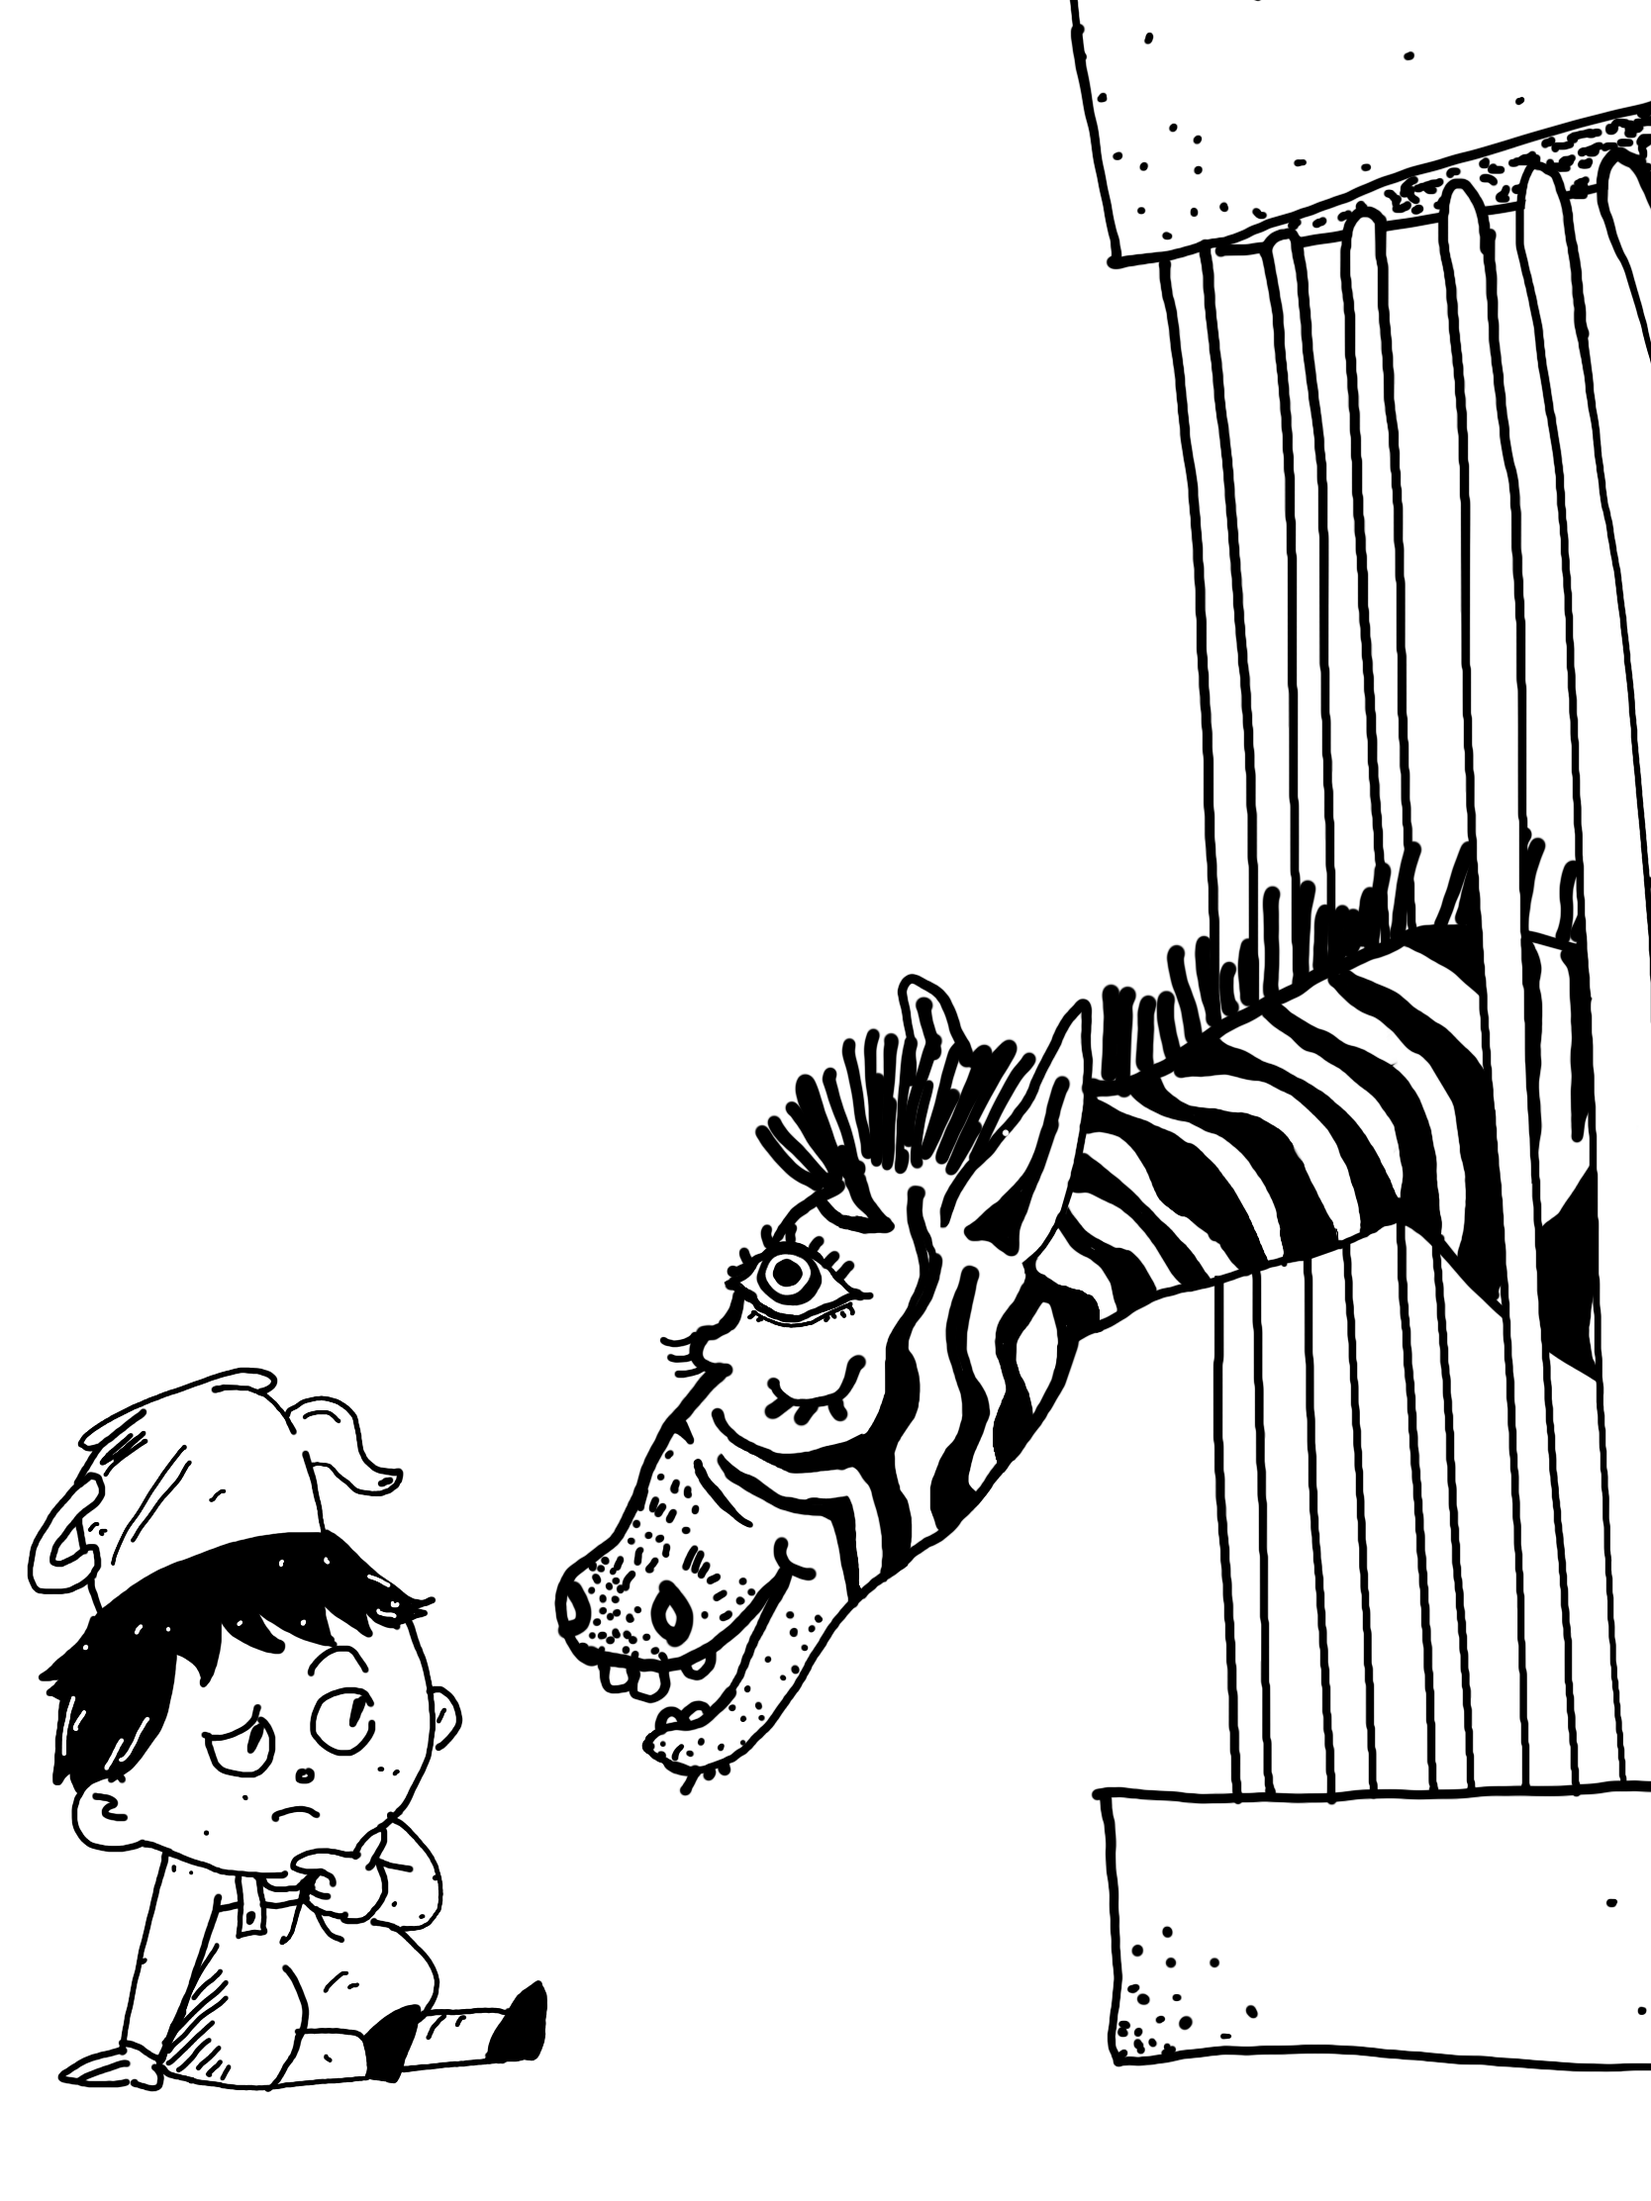
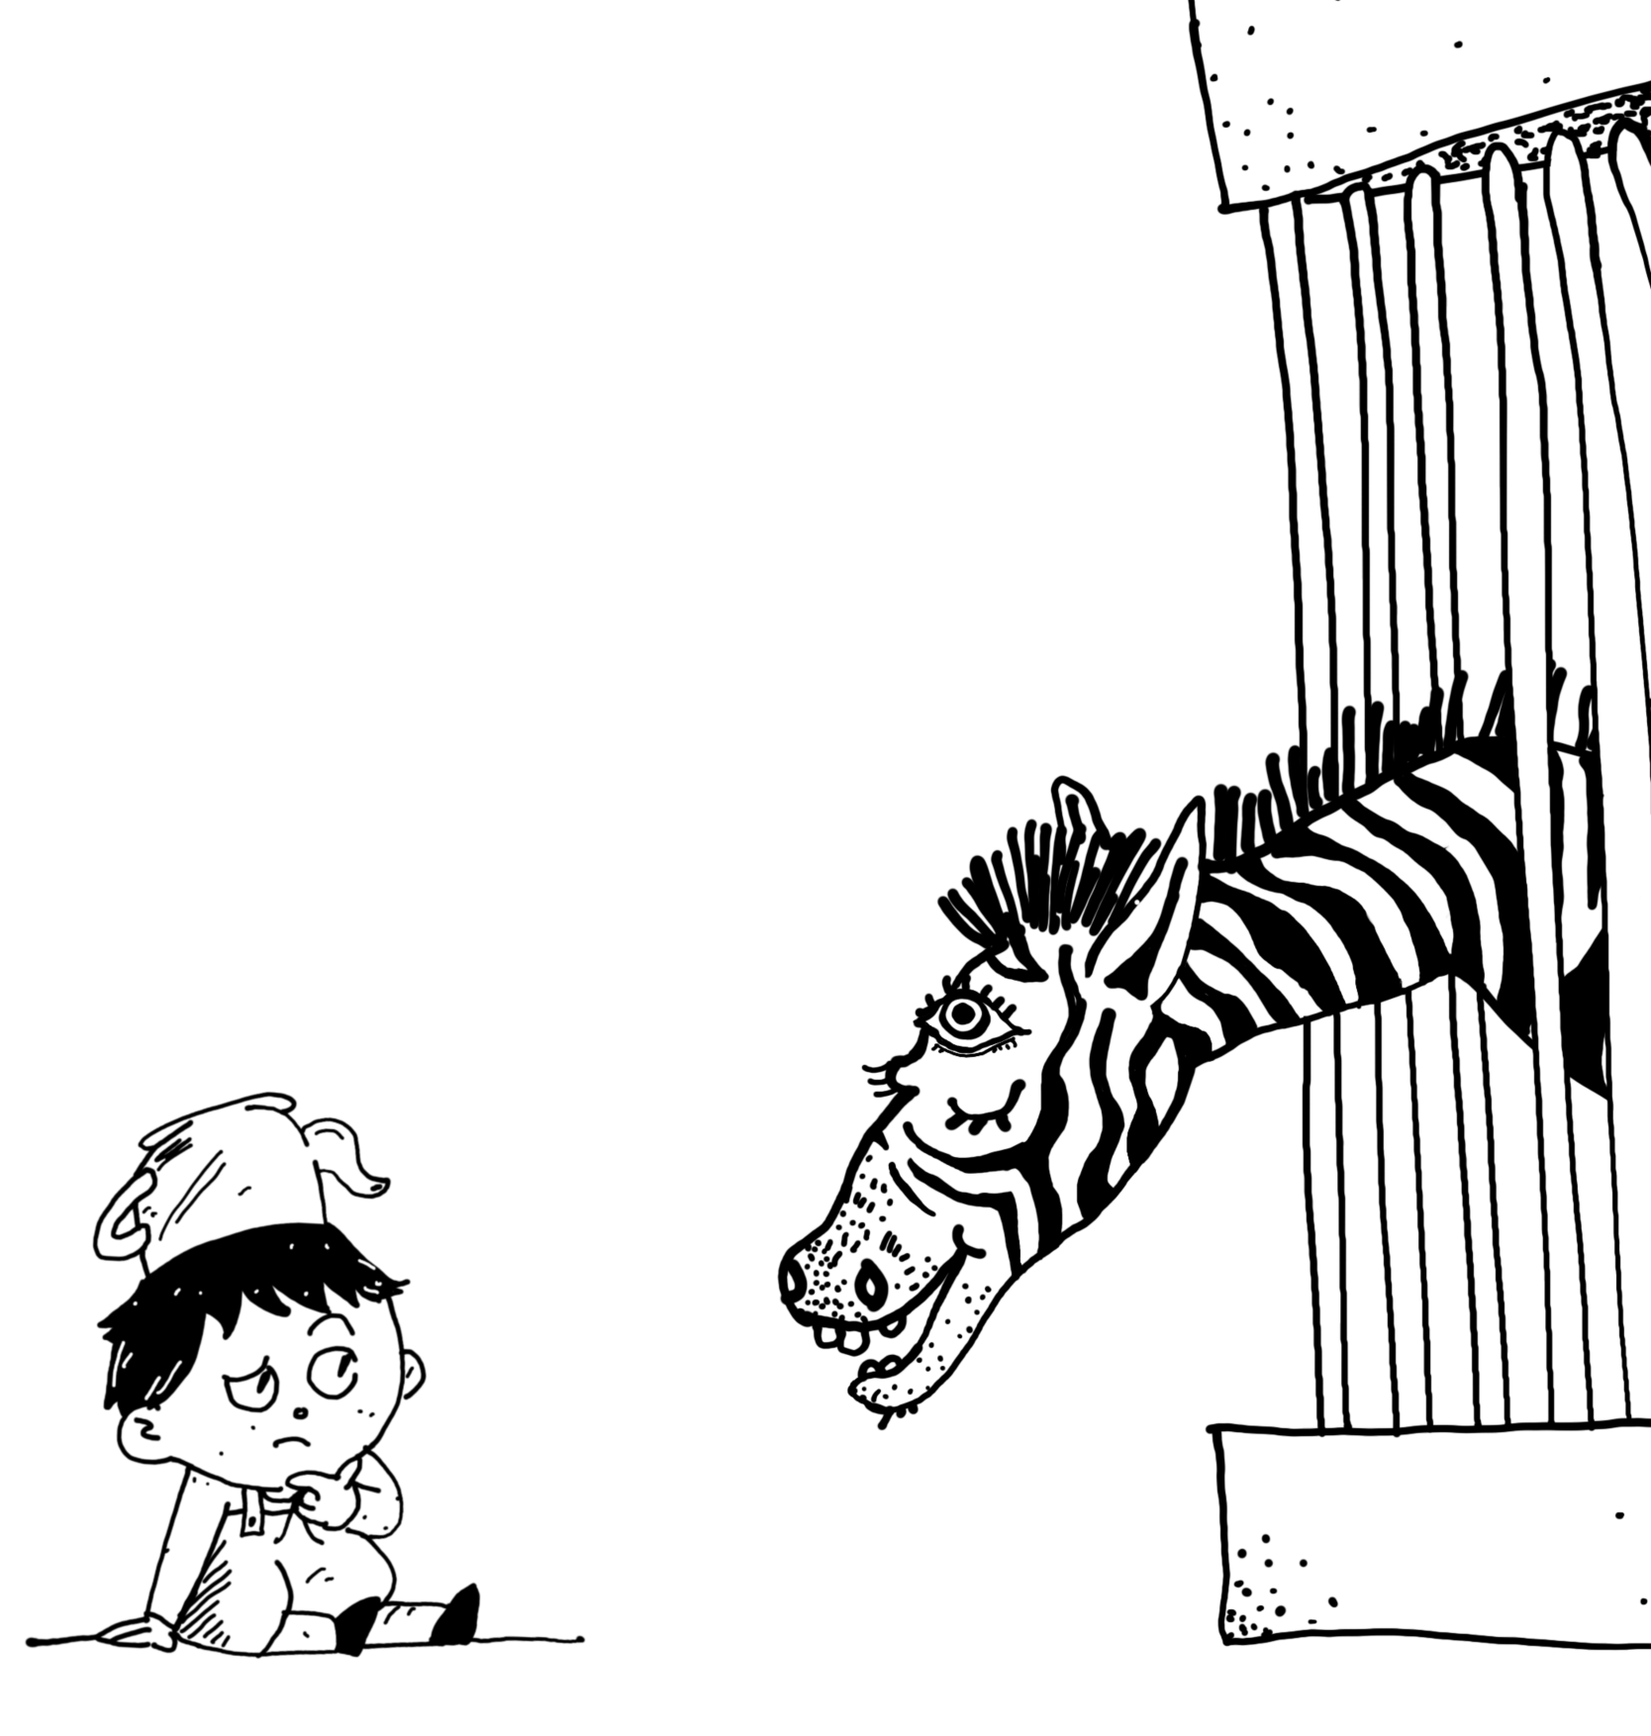
mobile ui mvp!!!!

Changed region(s): [[0.3118, 0.0, 1.0, 0.9544], [0.0, 0.6157, 0.3429, 0.9544], [0.6235, 0.0, 0.6547, 0.0308]]

diff --git a/html/projects/snakes.html b/html/projects/snakes.html
@@ -11,20 +11,23 @@
     <body>
         <img id="snake" src="../../assets/illustrations/snakes-snake.webp">
         <img id="frog" src="../../assets/illustrations/snakes-frog.webp">
+        <img id="mobile" src="../../assets/illustrations/snakes-mobile.webp">
         <div class="container">
-            <h1>Snakes and Ladders:</h1>
-            <h1><a target="_blank" href="./snakes-app.html">The Game of Romance</a></h1>
-                <p>Honestly? I was just trying to learn JavaScript.</p>
-                <p>But these larger questions motivated my project:</p>
-                <div class="list">
-                    <li>The most engaging games are ones that don’t have a linear narrative, but a branching one with many unpredictable outcomes. How can I create narrative building blocks so that each playthrough results in a unique story?</li>
-                    <li>What does my creative process look like when applied to a coding project?</li>
-                    <li>Why is love so hard to find?</li>
-                </div>
-                <p>Please note that this website is not optimized for mobile devices.</p>
-                <div class="stanza">
-                    <p>My gracious thanks to Ekaterina Gorbacheva</p>
-                    <p>for allowing me to use her Snakes and Ladders <a target="_blank" href="https://www.behance.net/gallery/73834831/Snakes-and-Ladders-Romance">design</a>!</p>
+            <div class="heading">
+                <h1>Snakes and Ladders:</h1>
+                <h1><a target="_blank" href="./snakes-app.html">The Game of Romance</a></h1>
+            </div>
+            <p>Honestly? I was just trying to learn JavaScript.</p>
+            <p>But these larger questions motivated my project:</p>
+            <div class="list">
+                <li>The most engaging games are ones that don’t have a linear narrative, but a branching one with many unpredictable outcomes. How can I create narrative building blocks so that each playthrough results in a unique story?</li>
+                <li>What does my creative process look like when applied to a coding project?</li>
+                <li>Why is love so hard to find?</li>
+            </div>
+            <p>Please note that this website is not optimized for mobile devices.</p>
+            <div class="stanza">
+                <p>My gracious thanks to Ekaterina Gorbacheva</p>
+                <p>for allowing me to use her Snakes and Ladders <a target="_blank" href="https://www.behance.net/gallery/73834831/Snakes-and-Ladders-Romance">design</a>!</p>
             </div>
         </div>
         <div class="nav">

diff --git a/html/projects/projects.html b/html/projects/projects.html
@@ -5,10 +5,11 @@
         <meta name="viewport" content="width=device-width, initial-scale=1.0"/>
         <link rel="icon" type="image/x-icon" href="../../assets/favicon.webp">
         <link rel="stylesheet" href="../../app/scss/main.css"/>
+        <link rel="stylesheet" href="../../app/scss/projects.css"/>
         <title>projects - lylia li</title>
     </head>
     <body>
-        <img src="../../assets/illustrations/projects.webp" style="max-width:30vw; margin-top: 40vh;">
+        <img id="projects" src="../../assets/illustrations/projects.webp">
         <div class="nav">
             <p id="prev"></p>
             <p id="idx"></p>

diff --git a/app/scss/genealogy.css b/app/scss/genealogy.css
@@ -9,6 +9,10 @@
     place-items: center;
 }
 
+.fathers figure {
+    text-align: center;
+}
+
 .fathers img {
     height: 20vh;
     object-fit: cover;
@@ -53,4 +57,22 @@ h2 {
 img {
     border: 5px dashed gray;
     border-radius: 50%;
+}
+
+@media only screen and (max-width: 912px) {
+    .fathers {
+        all: unset;
+        display: flex;
+        flex-direction: column;
+        justify-content: center;
+        align-items: center;
+    }
+
+    .fathers figure {
+        margin-bottom: 5vh;
+    }
+
+    .parents {
+        padding-bottom: 12vh;
+    }
 }

diff --git a/app/scss/snakes.css b/app/scss/snakes.css
@@ -24,3 +24,27 @@ h1 {
     right: 5vw;
     transform: rotate(-10deg);
 }
+
+@media only screen and (max-width: 912px) {
+    #snake, #frog {
+        display: none;
+    }
+
+    #mobile {
+        display: block;
+        width: 100vw;
+    }
+
+    .container {
+        all: unset;
+        display: flex;
+        flex-direction: column;
+        justify-content: center;
+        padding: 0 5vw 15vh 5vw; /* top right bottom left */
+        margin-top: 5vh;
+    }
+
+    .heading {
+        margin-bottom: 5vh;
+    }
+}

diff --git a/app/scss/seeing.css b/app/scss/seeing.css
@@ -12,3 +12,24 @@ body {
     left: 15vw;
     top: 35vh;
 }
+
+@media only screen and (max-width: 912px) {
+    body {
+        background-image: none;
+        margin-top: 0;
+    }
+
+    #mobile {
+        display: block;
+        width: 100vw;
+    }
+
+    .container {
+        all: unset;
+        display: flex;
+        flex-direction: column;
+        justify-content: center;
+        padding: 0 5vw 15vh 5vw; /* top right bottom left */
+        margin-top: 5vh;
+    }
+}

diff --git a/app/scss/epigraph.css b/app/scss/epigraph.css
@@ -19,9 +19,24 @@ body {
     text-align: right;
 }
 
+#invitation {
+    display: none;
+}
+
 @media only screen and (max-width: 912px) {
     .container {
         margin-top: 5vh;
-        margin-left: -7vh;
+        width: 80vw;
+    }
+
+    /* TODO: for some reason this property isn't inherited from the main.css file */
+    body {
+        background-image: none;
+    }
+
+    #invitation {
+        display: block;
+        width: 80vw;
+        margin-top: 4vh;
     }
 }

diff --git a/app/scss/anal.css b/app/scss/anal.css
@@ -39,3 +39,26 @@ h1 {
     top: 0;
     right: 0;
 }
+
+#mobile-both {
+    display: none;
+}
+
+@media only screen and (max-width: 912px) {
+    #kid, #zebra {
+        display: none;
+    }
+
+    #mobile {
+        display: block;
+        width: 100vw;
+    }
+
+    .body-text {
+        all: unset;
+        display: flex;
+        flex-direction: column;
+        justify-content: center;
+        padding-bottom: 15vw;
+    }
+}

diff --git a/html/projects/anal.html b/html/projects/anal.html
@@ -11,6 +11,7 @@
     <body>
         <img id="kid" src="../../assets/illustrations/anal-kid.webp">
         <img id="zebra" src="../../assets/illustrations/anal-zebra.webp">
+        <img id="mobile" src="../../assets/illustrations/anal-both.webp">
         <div class="body-text">
             <div class="container">
                 <h2>Art is a contradiction.</h2>

diff --git a/html/projects/seeing.html b/html/projects/seeing.html
@@ -9,6 +9,7 @@
         <title>only the things worth seeing - lylia li</title>
     </head>
     <body>
+        <img id="mobile" src="../../assets/illustrations/seeing.webp">
         <div class="container">
             <h1><a target="_blank" href="https://instagram.com/lylia5040">Only the things worth seeing</a></h1>
             <div class="stanza" id="s1">

diff --git a/html/epigraph/invitation.html b/html/epigraph/invitation.html
@@ -9,6 +9,7 @@
         <title>epigraph - lylia li</title>
     </head>
     <body>
+        <img id="invitation" src="../../assets/illustrations/invitation.webp">
         <div class="container">
             <div class="poem">
                 <h1>Invitation</h1>

diff --git a/app/scss/main.css b/app/scss/main.css
@@ -124,6 +124,10 @@ h1 a::after {
         height: unset;
         width: 100vw;
         overflow-y: scroll;
+        display: flex;
+        flex-direction: column;
+        justify-content: center;
+        align-items: center;
     }
 
     .desktop-nav {

diff --git a/app/scss/projects.css b/app/scss/projects.css
@@ -1,0 +1,11 @@
+/* STYLE FOR PROJECTS PAGE */
+#projects {
+    max-width: 30vw;
+    margin-top: 40vh;
+}
+
+@media only screen and (max-width: 912px) {
+    #projects {
+        max-width: 80vw;
+    }
+}
